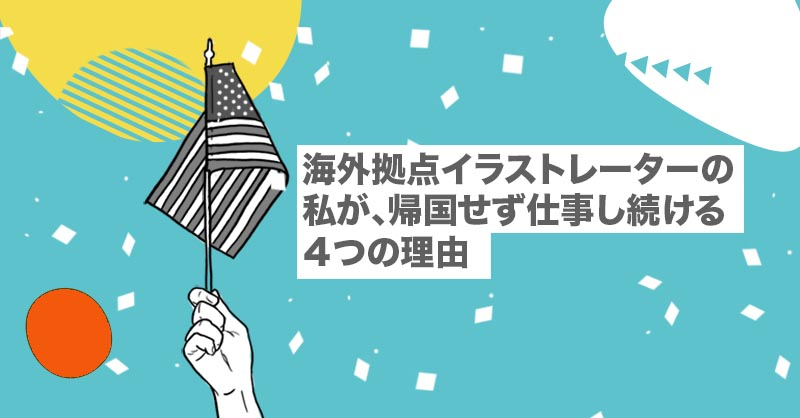
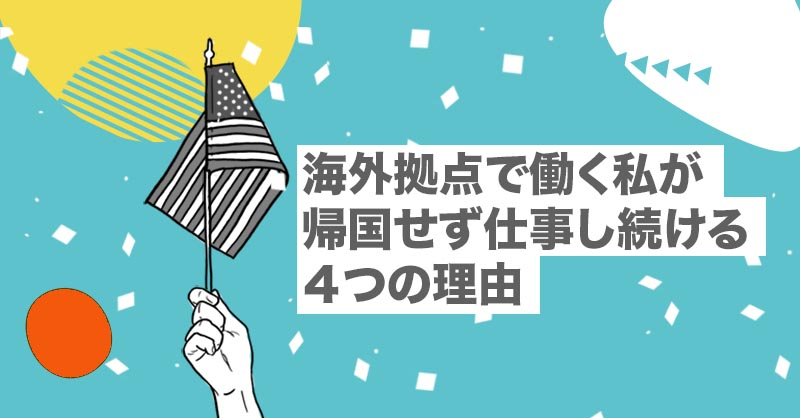
seo title

Changed region(s): [[0.3438, 0.3421, 0.9688, 0.7775]]

diff --git a/exampleSite/content/japanese/post/stay-abroad-pros.md b/exampleSite/content/japanese/post/stay-abroad-pros.md
@@ -1,7 +1,7 @@
 ---
-title: "海外拠点イラストレーターの私が、帰国せず仕事し続ける４つの理由【海外案件との違い】"
+title: "海外拠点で働く私が帰国せず仕事し続ける４つの理由【海外に住む理由｜海外移住してよかったこと｜海外案件と国内案件の違い】"
 date: 2021-07-20
-lastmod: 2021-07-20
+lastmod: 2021-09-07
 # post thumb
 images:
   - "images/blog/stay-abroad-pros.jpg"
